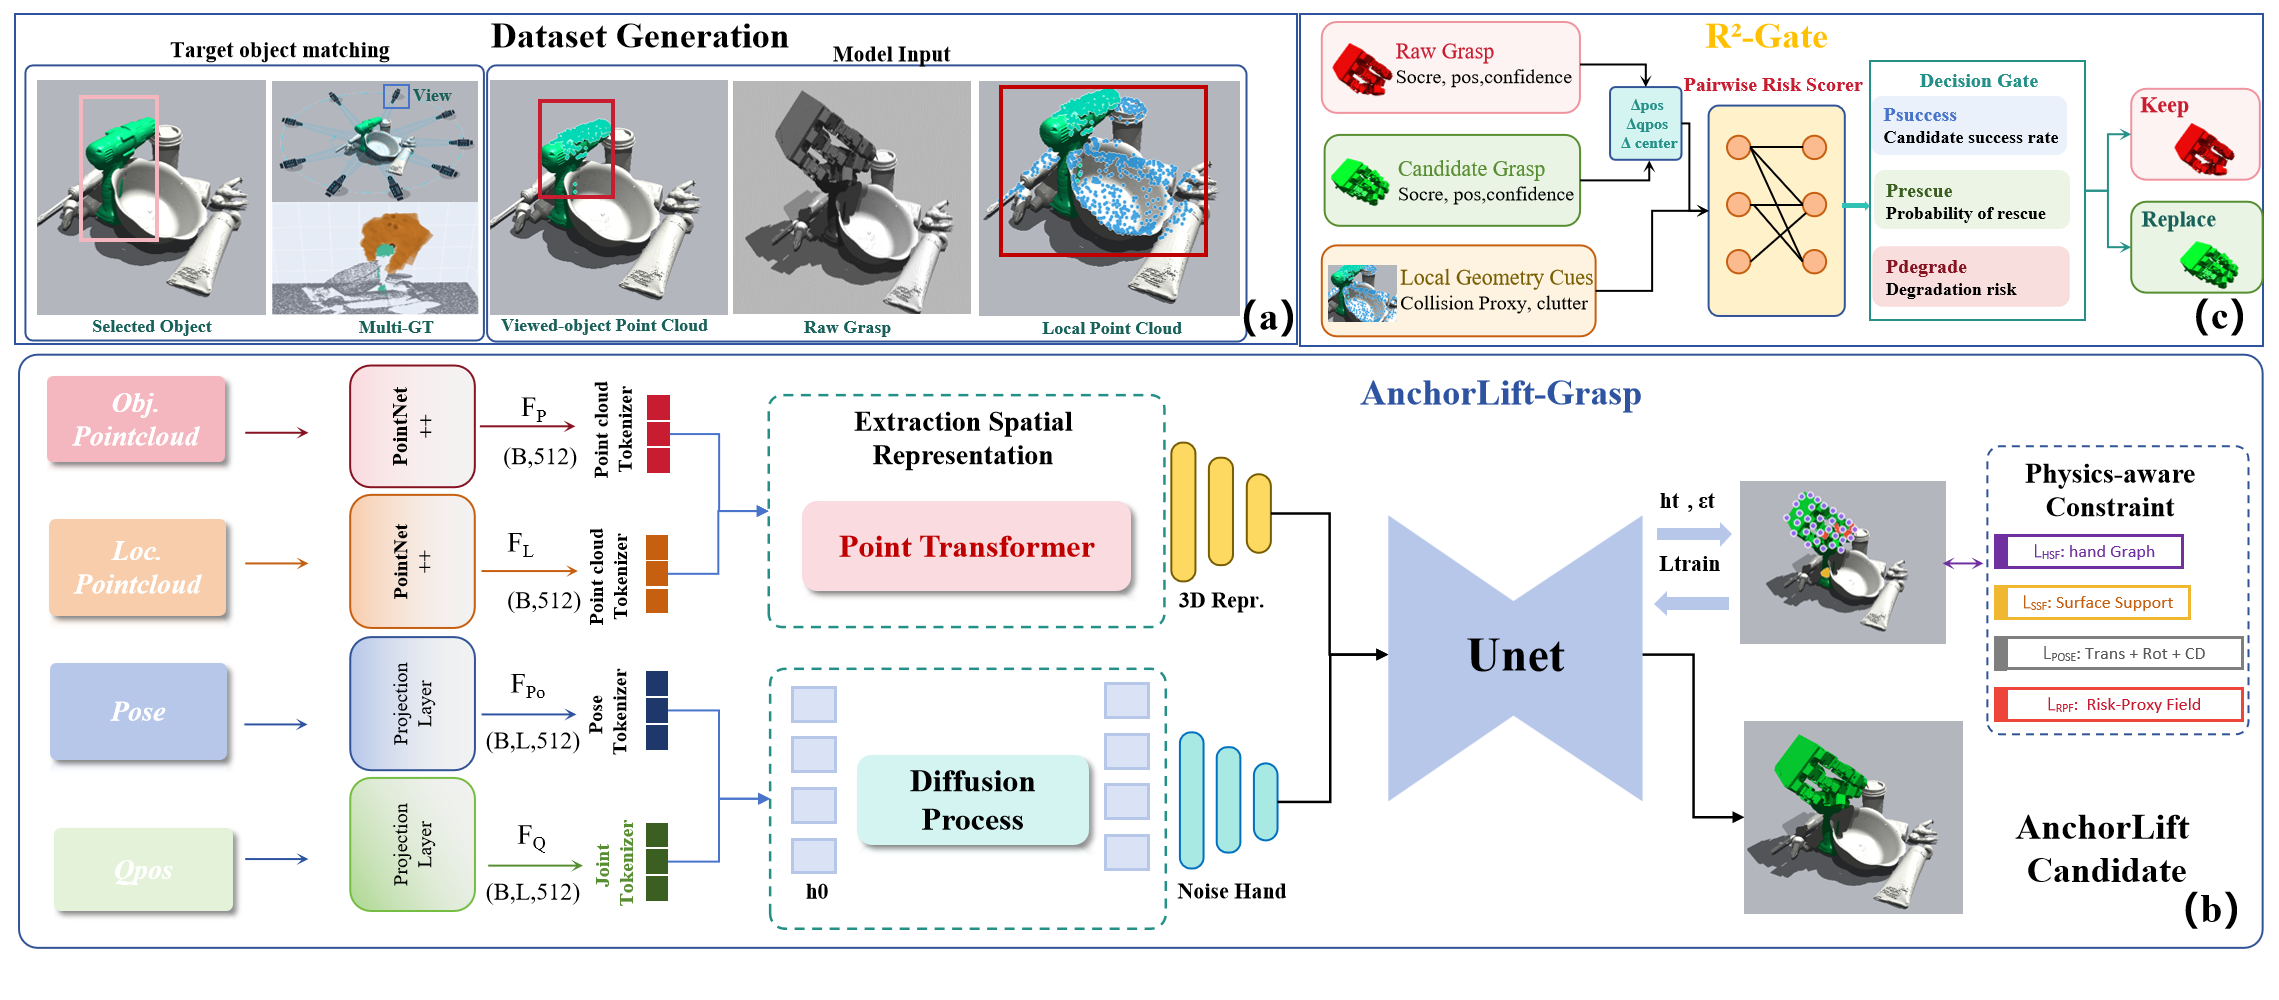
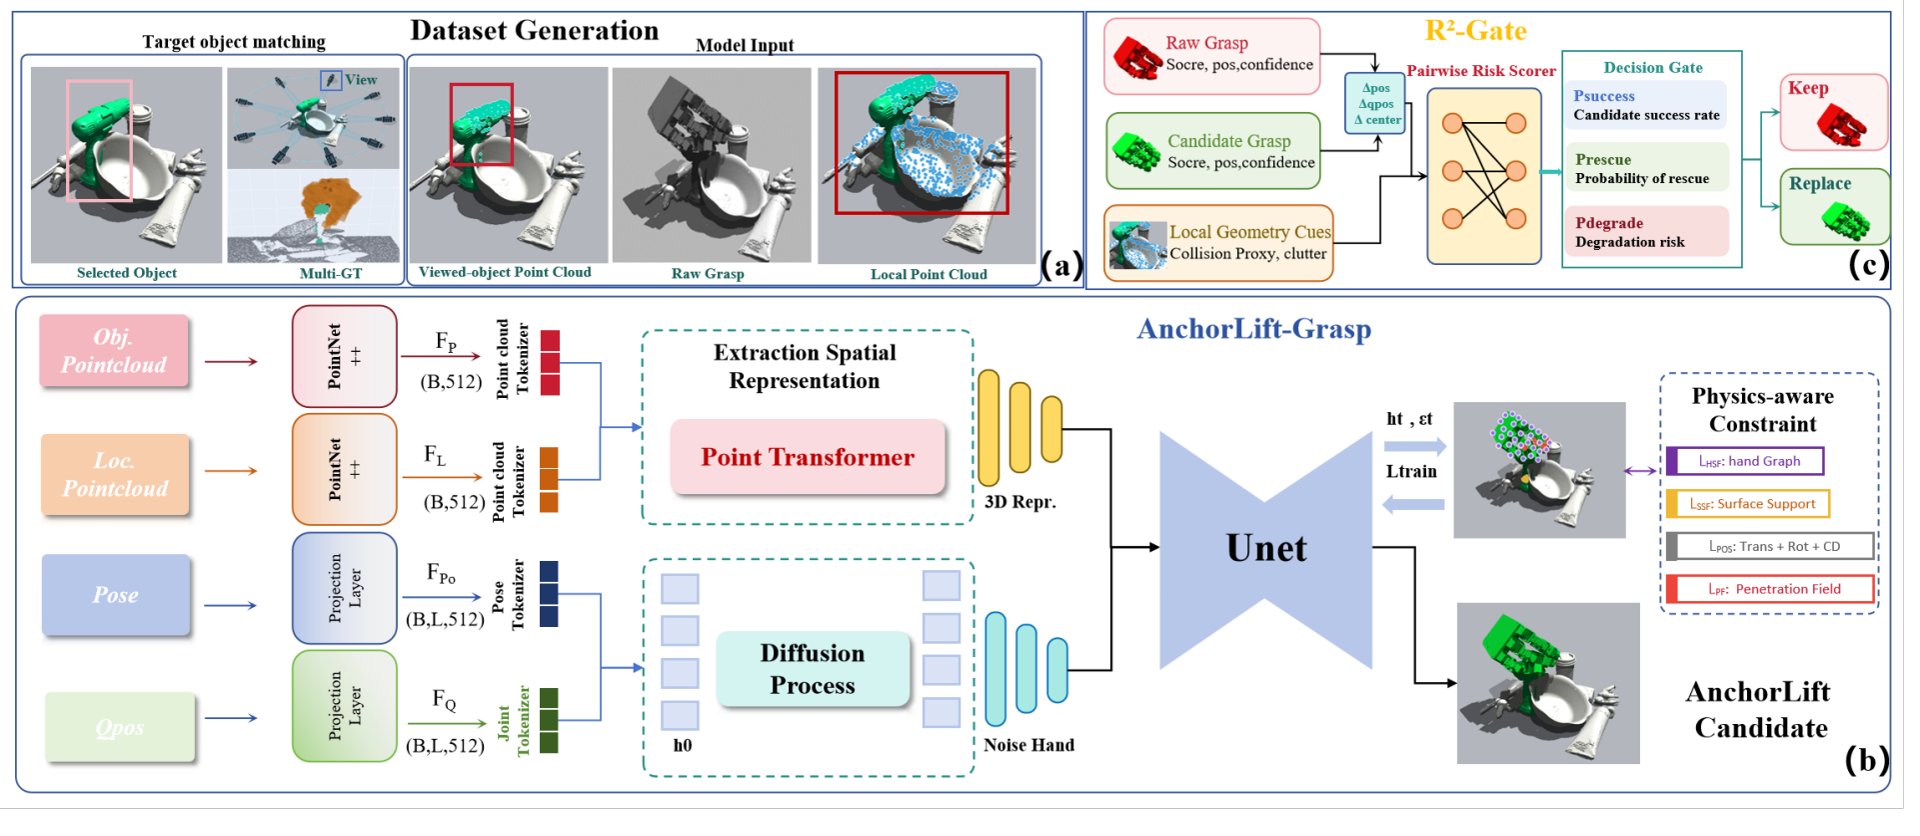
Update pipeline and diagnostic figures from manuscript assets

diff --git a/index.html b/index.html
@@ -88,7 +88,7 @@
           </div>
 
           <figure class="wide-figure">
-            <img src="assets/images/figure3.png?v=394d8f73852b" alt="Complete SafeAnchor-Grasp pipeline">
+            <img src="assets/images/figure3.png?v=e467f2d4d636" alt="Complete SafeAnchor-Grasp pipeline">
             <figcaption>Complete pipeline. Raw Grasp is matched to the original target object, AnchorLift generates a same-object candidate, and R<sup>2</sup>-Gate makes the final keep-or-replace decision.</figcaption>
           </figure>
 
@@ -100,7 +100,7 @@
               </p>
             </div>
             <figure>
-              <img src="assets/images/figure2.png?v=6cda3e4b9ab7" alt="AnchorLift and R2-Gate diagnostic fields">
+              <img src="assets/images/figure2.png?v=2d42b34474ed" alt="AnchorLift and R2-Gate diagnostic fields">
               <figcaption>Core intermediate states. HSF, SSF, and PF provide hand-structure, target-surface proximity, and penetration diagnostics.</figcaption>
             </figure>
           </div>
